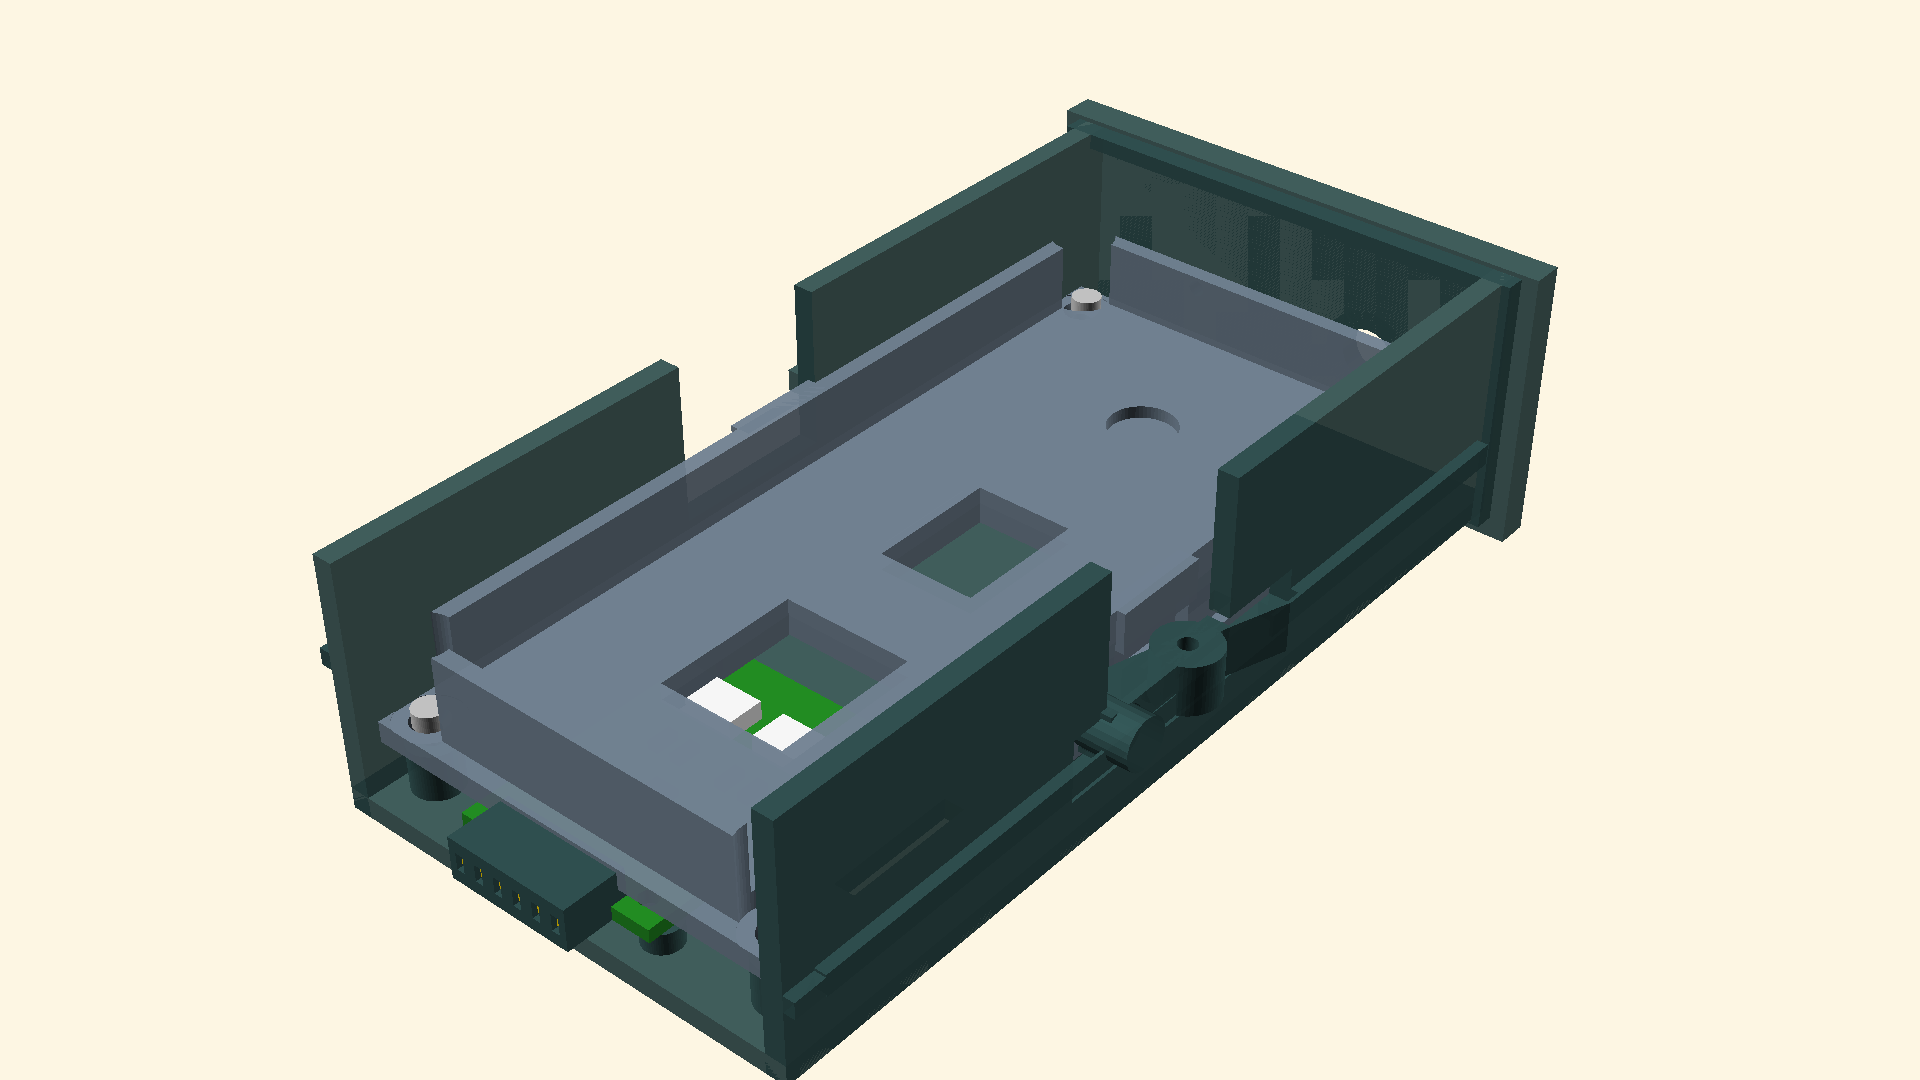
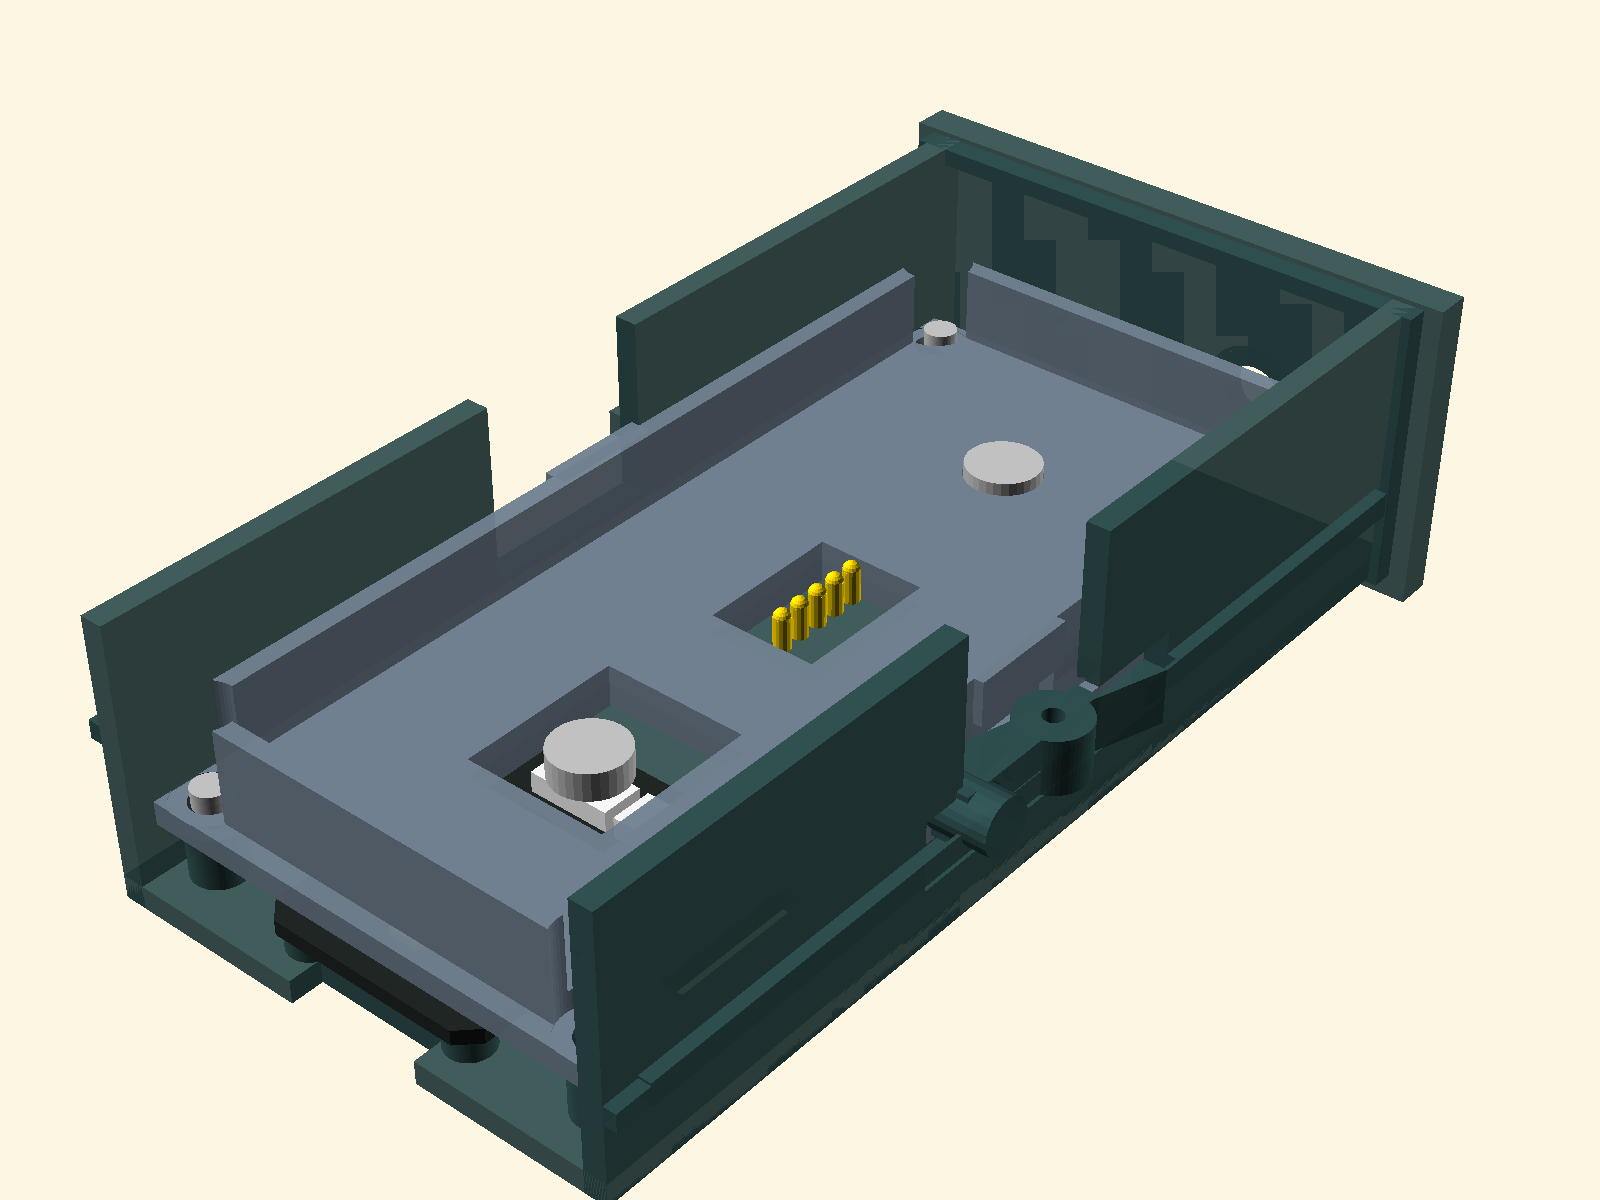
feat(docs, cad): update figures 8.11, 8.15, 8.30 with current v9.6 All-UWB CAD geometry, magnets, and pogo pins

diff --git a/hardware/scripts/build_cad_from_openscad.py b/hardware/scripts/build_cad_from_openscad.py
@@ -253,7 +253,7 @@ RENDER_TARGETS: List[Tuple[str, str, str, str]] = [
     (
         "02_pod_base/saddlebag_lid_dock.scad",
         os.path.join(CAD_IMG_DIR, "saddlebag_lid_dock_cad.png"),
-        "0,0,15,55,0,310,280",
+        "70,38,13,55,0,310,320",
         "Tomorrow"
     ),
     (

diff --git a/docs/de/08_enclosures_mechanics_cad.md b/docs/de/08_enclosures_mechanics_cad.md
@@ -768,9 +768,9 @@ Auf frei zugänglichen Reiseenduros und bei Zwischenstopps auf Fernreisen schüt
 
 Das universelle Kofferdeckel-Dock ([`saddlebag_lid_dock.scad`](../../hardware/cad/scad/02_pod_base/saddlebag_lid_dock.scad)) wurde speziell für die geschützte, vibrationsfeste und 100 % zerstörungsfreie Innenmontage der Satelliten-Pods 1 (Sena Mesh) und 2 (Cardo DMC) in Motorrad-Seitenkoffern entwickelt (Referenz: Harley-Davidson One-Touch Hartschalenkoffer 2014-2024+):
 
-![Universal Saddlebag Lid Dock CAD](../images/cad/saddlebag_lid_dock_iso.png)
+![Universal Saddlebag Lid Dock CAD](../images/cad/saddlebag_lid_dock_cad.png)
 
-*Abbildung 8.30: 3D-CAD-Visualisierung des Kofferdeckel-Docks (`saddlebag_lid_dock.scad`). Sichtbar sind der inboard gerichtete Torx-Montageflansch für die originalen Scharnierschrauben, die frontale Dual-Port-Kabelschnauze mit Zugentlastung (Port B USB-C Durchgang & Port A M8 Freisparung), die umlaufende Halbschale mit EPDM-Spannbandschlitzen und die obere Tropfkante über dem Kassetteneinschub.*
+*Abbildung 8.30: 3D-CAD-Visualisierung des Kofferdeckel-Docks (`saddlebag_lid_dock.scad`). Sichtbar sind der inboard gerichtete Torx-Montageflansch für die originalen Scharnierschrauben, die frontale Kabelschnauze mit integrierter Zugentlastung für die 2-Draht DC-Spannungsversorgung (M8 / FLRY-B Leitung parallel zum Deckel-Fangband zur MagSafe-Abreißkupplung), die umlaufende Halbschale mit EPDM-Spannbandschlitzen und die obere Tropfkante über dem Kassetteneinschub.*
 
 #### 6.5.1 Zero-Drill-Befestigung & Mechanisches Konzept
 1. **Nutzung originaler Befestigungspunkte (Zero-Drill):**

diff --git a/docs/en/08_enclosures_mechanics_cad.md b/docs/en/08_enclosures_mechanics_cad.md
@@ -723,9 +723,9 @@ On exposed adventure bikes and remote expedition tracks (e.g. TET routes, alpine
 
 The universal Saddlebag Lid Dock ([`saddlebag_lid_dock.scad`](../../hardware/cad/scad/02_pod_base/saddlebag_lid_dock.scad)) was specifically developed for protected, vibration-proof, and 100% non-destructive interior mounting of satellite Pods 1 (Sena Mesh) and 2 (Cardo DMC) in hard saddlebags (Reference: Harley-Davidson One-Touch hard saddlebags 2014-2024+):
 
-![Universal Saddlebag Lid Dock CAD](../images/cad/saddlebag_lid_dock_iso.png)
+![Universal Saddlebag Lid Dock CAD](../images/cad/saddlebag_lid_dock_cad.png)
 
-*Figure 8.30: 3D CAD visualization of the Saddlebag Lid Dock (`saddlebag_lid_dock.scad`). Visible are the inboard-oriented Torx mounting flange for OEM hinge screws, forward Dual-Port cable snout with strain relief (Port B USB-C pass-through & Port A M8 clearance), perimeter half-shell with EPDM strap slots, and upper drip lip shielding the cartridge entrance.*
+*Figure 8.30: 3D CAD visualization of the Saddlebag Lid Dock (`saddlebag_lid_dock.scad`). Visible are the inboard-oriented Torx mounting flange for OEM hinge screws, forward cable snout with integrated strain relief for the 2-wire DC power supply (M8 / FLRY-B line routed along the check strap to the MagSafe breakaway coupler), perimeter half-shell with EPDM strap slots, and upper drip lip shielding the cartridge entrance.*
 
 #### 6.5.1 Zero-Drill Mounting & Mechanical Design
 1. **OEM Mounting Point Utilization (Zero-Drill):**
